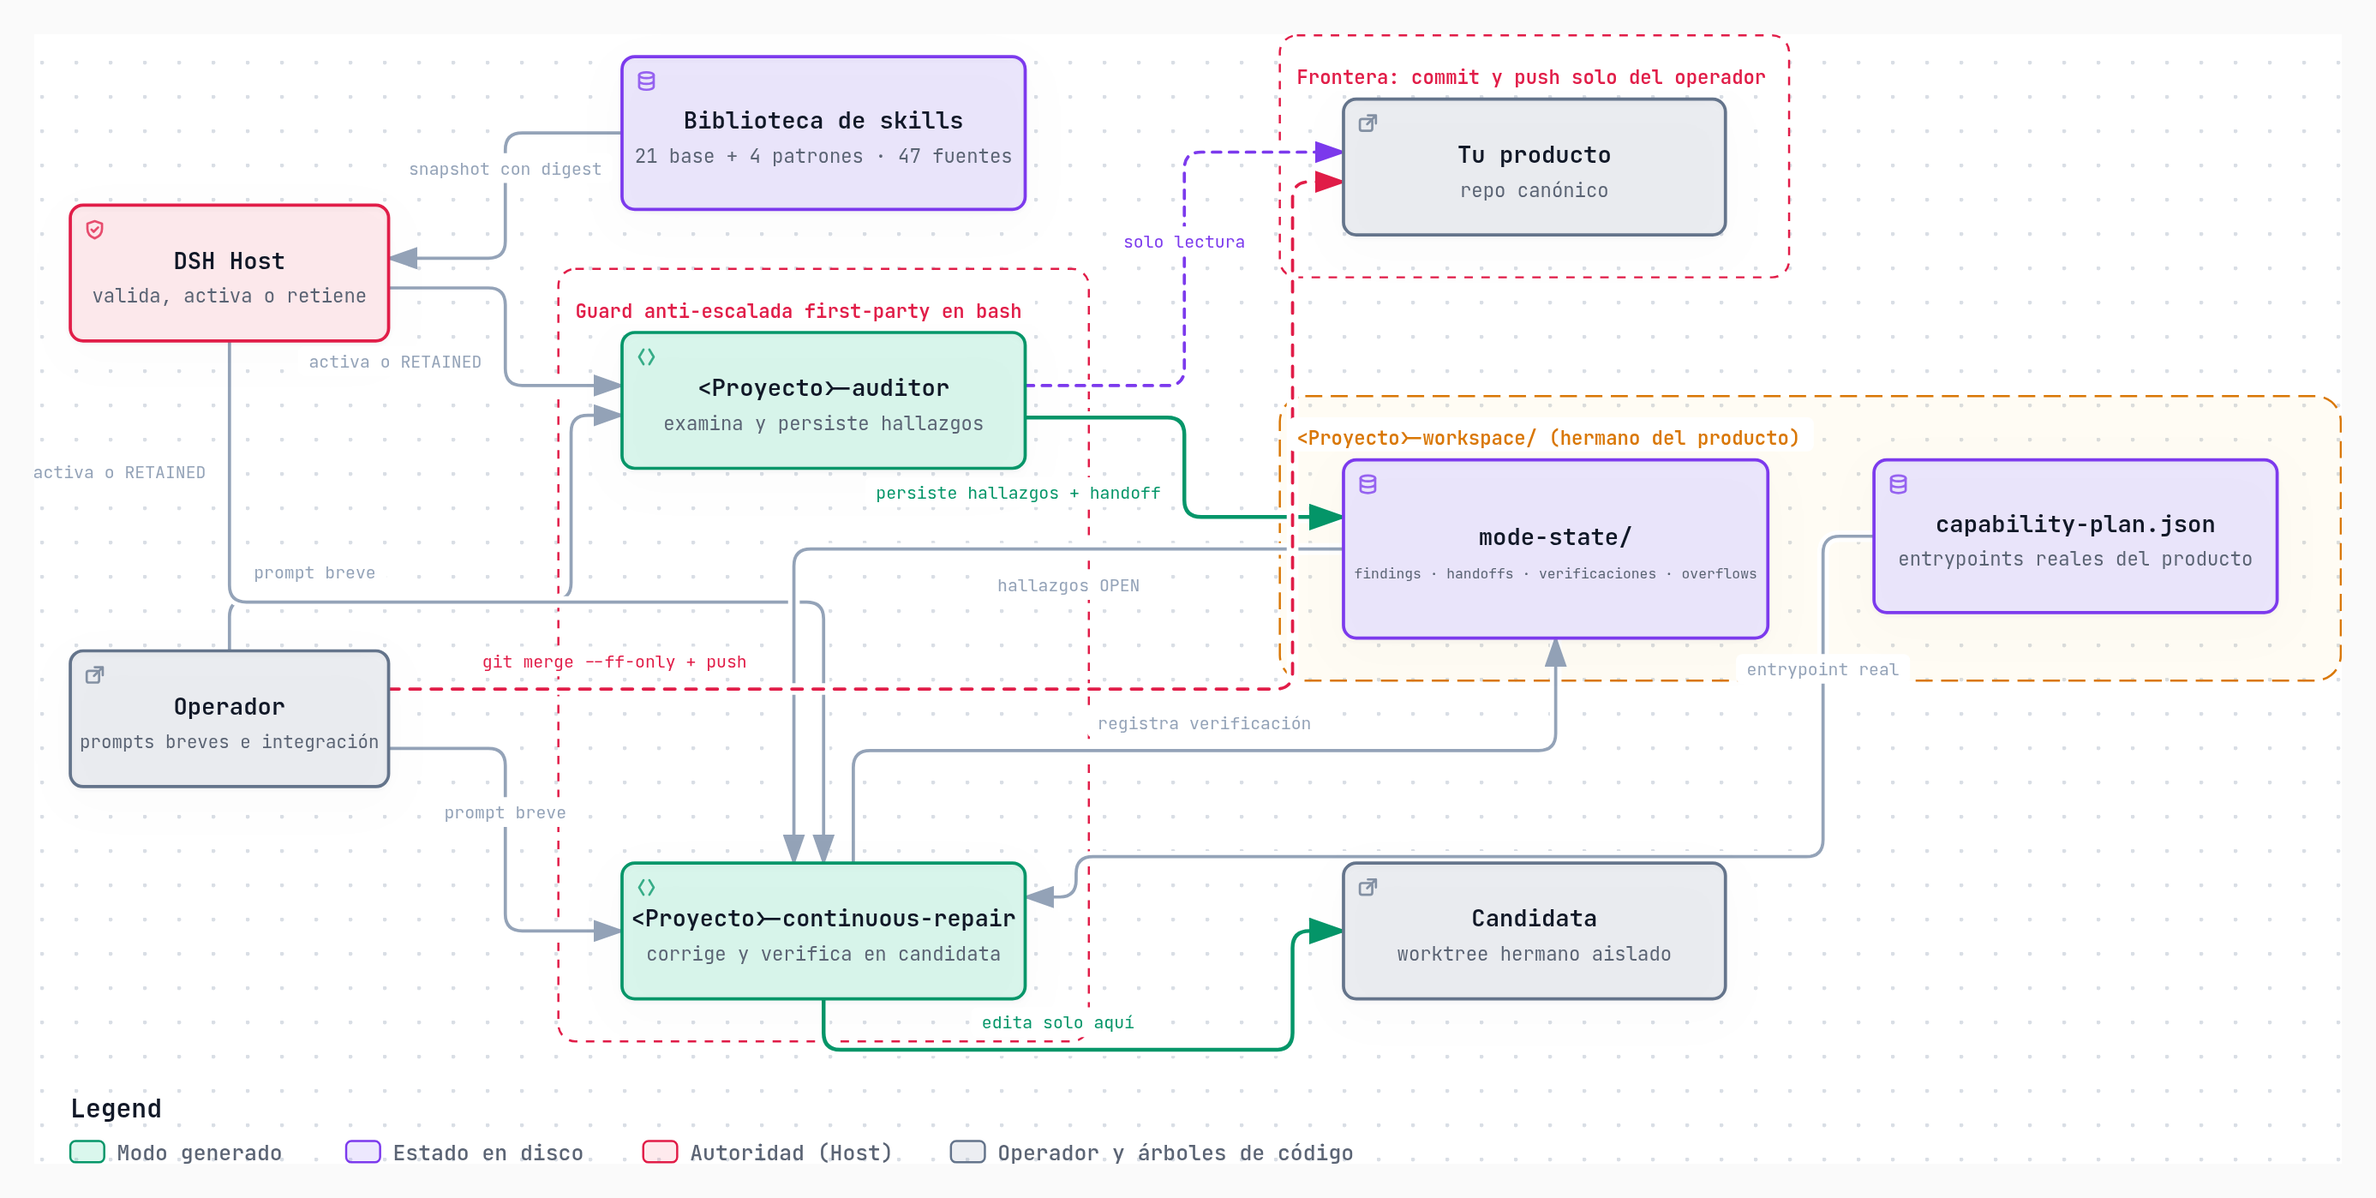
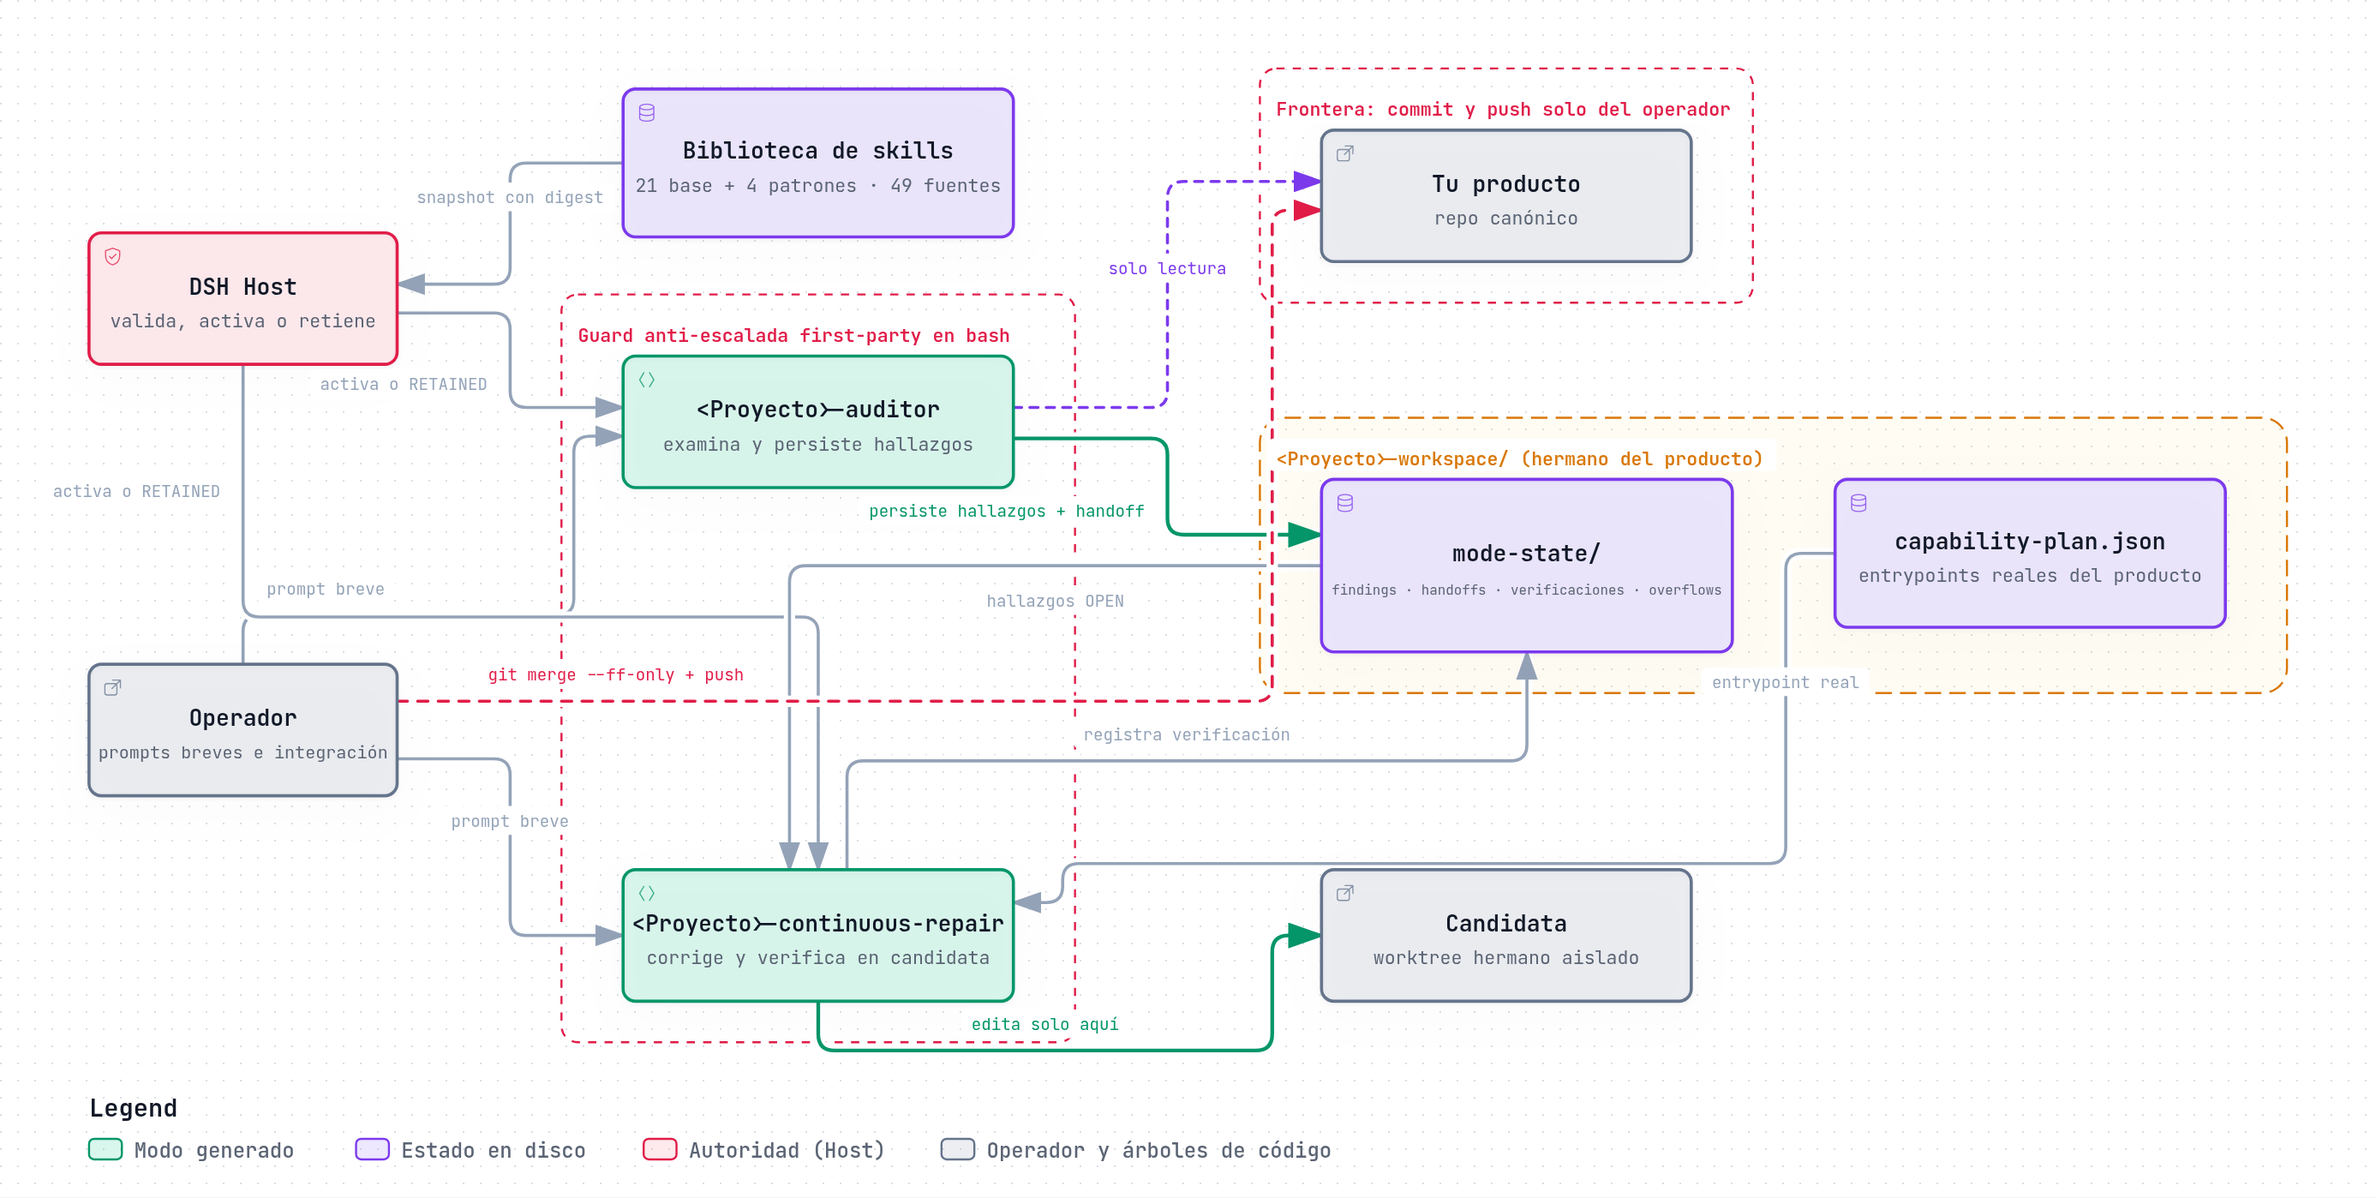
Registro de fuentes: mattpocock/skills y NVIDIA-NeMo/Switchyard como REFERENCE (49)
Las dos se registran con pin por commit y decisión razonada; ninguna se adopta
todavía, por decisión del mantenedor: está cambiando el código y no quiere
entradas sin ganancia comprobada. Registrar fija procedencia, licencia y
criterio; implementar, no.

- mattpocock/skills (MIT, b0618bc): 38 SKILL.md, de los que el manifiesto
  selecciona 27. Instrucciones puras sin runtime. diagnosing-bugs solapa con lo
  ya cubierto en library/base/, así que su valor se decide por triaje skill a
  skill, nunca por catálogo completo.
- NVIDIA-NeMo/Switchyard (Apache-2.0, 1a0d119): servidor de enrutado de modelos
  siempre vivo que cambia la topología actual; de él solo libsy —que separa la
  decisión de la llamada al modelo— encaja con la separación de autoridad. Su
  fallback_client es un proxy abierto y decision_clients solo admite system_one,
  sin holdout; queda escrito como freno a una adopción inadvertida.

Se corrige el recuento de 47 a 49 en README.md, README.es.md,
PLAN_IMPLEMENTACION.md y docs/status.md (texto y matriz), incluido el desglose
de repositorios de skills/índices/runtimes de 24 a 26. El diagrama de
arquitectura instalada se actualiza en su fuente y se re-renderiza con archify
finalize (validate, deliver, check y browser-check en verde); el PNG se recaptura
en modo embed a las mismas dimensiones y el único cambio visual es el número.

Suite: 804 OK (11 saltadas sin runtime)

diff --git a/docs/diagrams/arquitectura-instalacion.html b/docs/diagrams/arquitectura-instalacion.html
@@ -5095,8 +5095,8 @@ OTHER DEALINGS IN THE FONT SOFTWARE.
         <text data-detail="fine" x="115" y="166" class="t-security" font-size="7" text-anchor="middle">estados mecánicos</text>
         </g>
 
-        <g id="node-biblioteca" data-node-id="biblioteca" data-node-label="Biblioteca de skills" tabindex="0" role="button" aria-label="Focus Biblioteca de skills, 21 base + 4 patrones · 47 fuentes, Architecture component" aria-pressed="false" data-node-kind="database" data-node-sublabel="21 base + 4 patrones · 47 fuentes" data-node-tag="procedencia registrada" data-node-context="Architecture component">
-          <title>Biblioteca de skills · 21 base + 4 patrones · 47 fuentes · Architecture component · procedencia registrada</title>
+        <g id="node-biblioteca" data-node-id="biblioteca" data-node-label="Biblioteca de skills" tabindex="0" role="button" aria-label="Focus Biblioteca de skills, 21 base + 4 patrones · 49 fuentes, Architecture component" aria-pressed="false" data-node-kind="database" data-node-sublabel="21 base + 4 patrones · 49 fuentes" data-node-tag="procedencia registrada" data-node-context="Architecture component">
+          <title>Biblioteca de skills · 21 base + 4 patrones · 49 fuentes · Architecture component · procedencia registrada</title>
           <rect x="300" y="40" width="190" height="72" rx="6" class="c-mask"/>
           <rect x="300" y="40" width="190" height="72" rx="6" class="c-database" stroke-width="1.5"/>
           <g aria-hidden="true" data-semantic-sigil="database" class="semantic-sigil s-database" transform="translate(306 46) scale(0.6875)">
@@ -5104,7 +5104,7 @@ OTHER DEALINGS IN THE FONT SOFTWARE.
             <path d="M3 4v8c0 1.1 2.2 2 5 2s5-.9 5-2V4M3 8c0 1.1 2.2 2 5 2s5-.9 5-2"/>
           </g>
           <text data-node-label="" data-detail-anchor="" x="395" y="74" class="t-primary" font-size="11" font-weight="600" text-anchor="middle">Biblioteca de skills</text>
-        <text data-detail="context" x="395" y="90" class="t-muted" font-size="9" text-anchor="middle">21 base + 4 patrones · 47 fuentes</text>
+        <text data-detail="context" x="395" y="90" class="t-muted" font-size="9" text-anchor="middle">21 base + 4 patrones · 49 fuentes</text>
         <text data-detail="fine" x="395" y="104" class="t-database" font-size="7" text-anchor="middle">procedencia registrada</text>
         </g>
 
@@ -5472,7 +5472,7 @@ OTHER DEALINGS IN THE FONT SOFTWARE.
           <h3>Skills con procedencia</h3>
         </div>
         <ul>
-          <li>21 base + 4 patrones desde 47 fuentes fijadas</li>
+          <li>21 base + 4 patrones desde 49 fuentes fijadas</li>
           <li>Creator reutiliza contra el snapshot con digest</li>
           <li>El guard anti-escalada viaja en el bundle</li>
         </ul>

diff --git a/docs/status.md b/docs/status.md
@@ -1,6 +1,6 @@
 # Estado comprobado del framework
 
-**Actualización:** 2026-10-06
+**Actualización:** 2026-10-08
 **Arquitectura vigente:** [v3.0](../ARQUITECTURA_FLUJO_AGENTES.md) (norma implementada; lifecycle operativo EN CURSO/IMPLEMENTED_NOT_VERIFIED)
 **Índice de progreso:** [C0–C7 y post-C7](../PLAN_IMPLEMENTACION.md)
 
@@ -37,7 +37,7 @@ El historial eliminado sigue disponible en Git y no debe reconstruirse como inst
 
 Creator selecciona primero la biblioteca base inmutable y el catálogo de patrones especializados; después compone o aplica overrides declarativos. Solo genera una extensión cuando demuestra que esas capas no aplican, con contrato, escenarios y aceptación específica. Una skill transferida no es válida automáticamente para otro proyecto. La regeneración no sustituye bases por conveniencia.
 
-Las fuentes externas evaluadas quedan registradas con procedencia fijada en `library/source-registry.json` (esquema `source-registry.schema.json`): 47 fuentes — 24 repositorios de skills/índices/runtimes y 23 estándares o guías, con `fastapi-pydantic-docs` sustituida por `fastapi-framework` y `pydantic-framework` fijadas por observación directa — con URL canónica, commit, fecha, licencia, estado y decisión razonada. Una fuente sin revisión fijada o con licencia no resuelta no puede ser `CANDIDATE` ni `ACTIVE`; la adquisición es solo manual con pin, sin npx/marketplace/descargas, con staging fuera del árbol y validación Host previa. El inventario pormenorizado que respalda las decisiones se mantiene en un espacio de auditoría externo; el registro solo conserva su digest SHA-256. La superficie de descubrimiento de nuevas fuentes es la búsqueda `topic:claude-skills` de la API de GitHub, filtrada por hechos verificables (licencia, mantenimiento, pruebas) y con adopción solo por análisis por skill con pin manual; la frescura nunca ordena.
+Las fuentes externas evaluadas quedan registradas con procedencia fijada en `library/source-registry.json` (esquema `source-registry.schema.json`): 49 fuentes — 26 repositorios de skills/índices/runtimes y 23 estándares o guías, con `fastapi-pydantic-docs` sustituida por `fastapi-framework` y `pydantic-framework` fijadas por observación directa — con URL canónica, commit, fecha, licencia, estado y decisión razonada. Una fuente sin revisión fijada o con licencia no resuelta no puede ser `CANDIDATE` ni `ACTIVE`; la adquisición es solo manual con pin, sin npx/marketplace/descargas, con staging fuera del árbol y validación Host previa. El inventario pormenorizado que respalda las decisiones se mantiene en un espacio de auditoría externo; el registro solo conserva su digest SHA-256. La superficie de descubrimiento de nuevas fuentes es la búsqueda `topic:claude-skills` de la API de GitHub, filtrada por hechos verificables (licencia, mantenimiento, pruebas) y con adopción solo por análisis por skill con pin manual; la frescura nunca ordena.
 
 La biblioteca base está materializada en `library/library.json` con contenido y escenarios en `library/base/`. La conversión de la base está completa: 21 skills (reimplementación propia con atribución MIT de `obra-superpowers` y `addyosmani-agent-skills`) — brainstorming, writing-plans, executing-plans, systematic-debugging, test-driven-development, requesting-code-review, receiving-code-review, verification-before-completion, finishing-a-development-branch, spec-driven-development, constraint-driven-development, source-driven-development, security-and-hardening, context-engineering, api-and-interface-design, observability-and-instrumentation, documentation-and-adrs, performance-optimization, incremental-implementation, code-simplification y deprecation-and-migration. Cada skill base tiene un escenario positivo y al menos uno de veredicto FAIL/BLOCKED, y la cobertura es bidireccional y obligatoria en la suite. Se rechazaron como base idea-refine, interview-me y using-agent-skills por ser meta o interactivas sin valor universal.
 
@@ -110,7 +110,7 @@ Unidades incorporadas tras C7, guiadas por evidencia de sesiones DSH reales; el 
 
 | Unidad | Estado | Contenido comprobado |
 |---|---|---|
-| Registro de fuentes y biblioteca materializada | HECHO | 47 fuentes con procedencia fijada; 21 skills base inmutables y 4 patrones de catálogo con escenarios y regresión bidireccional |
+| Registro de fuentes y biblioteca materializada | HECHO | 49 fuentes con procedencia fijada; 21 skills base inmutables y 4 patrones de catálogo con escenarios y regresión bidireccional |
 | Integración biblioteca ↔ Creator | HECHO | snapshot de biblioteca por run, prompt con base/catálogo y criterios de activación, `reuse_reference` resuelto por el validador Host contra el snapshot |
 | Despacho automático y ciclo de vida DSH | HECHO | detección/parada de instancias previas, propiedad del puerto 3080 sin matar procesos ajenos, cookie HMAC del home, `npx -y` no interactivo con salida capturada y tokens redactados, resolutor de proveedor utilizable (aviso, no bloqueo; `DSH_PROVIDER_STRICT=1` para parada dura) |
 | Sesión ligada al workspace del run | HECHO | `workspace/create` + `session/create` con `workspaceId`; única sesión Creator, agrupada en la UI, frontera `workspace-write` en el workspace entero, sin sesiones evaluator/reviewer ni delegación |

diff --git a/CHANGELOG.md b/CHANGELOG.md
@@ -1,5 +1,12 @@
 # Cambios
 
+## Registro de fuentes: dos candidatas evaluadas, ninguna adoptada (49) — 2026-10-08
+- **El registro pasa de 47 a 49 fuentes; las dos entran como REFERENCE y ninguna como candidata.** `mattpocock/skills` (MIT, pin `b0618bc`) queda como material de referencia para un triaje por skill: su `diagnosing-bugs` —bucle reproducible, minimización, hipótesis, instrumentación y verificación— **solapa con lo ya cubierto en `library/base/`**, derivado de `obra-superpowers`, así que lo que aporta se decide skill a skill contra la base actual y nunca por catálogo completo. `NVIDIA-NeMo/Switchyard` (Apache-2.0, pin `1a0d119`) queda registrado sin adopción: un servidor de enrutado de modelos siempre vivo, con configuración TOML en capas, **cambia la topología actual**; de él solo `libsy` —que separa la decisión de la llamada al modelo y deja la ejecución en el host— tiene forma compatible con la separación de autoridad vigente.
+- **Queda escrito lo que impediría una adopción inadvertida.** Switchyard declara un `fallback_client` que reenvía **toda ruta no registrada** a un upstream, es decir un proxy abierto incompatible con el fail-closed de este framework, y `decision_clients` solo admite `system_one`, sin holdout que permita medir si enruta mejor o peor. Además es v0.3.0 pre-1.0: el pin exige revalidación, no una fotografía. En el caso de las skills, el cambio de comportamiento necesario es de supuestos de host, no de código: sin auto-descubrimiento ni marketplace (prohibidos por la política del registro), con la verificación declarada convertida en gate del Host y los artefactos de reproducción fuera del árbol canónico.
+- **La adopción queda aplazada por decisión del mantenedor, no por falta de análisis.** El mantenedor está cambiando el código y no quiere añadir sin ganancia comprobada: registrar fija la procedencia, la licencia y la decisión razonada; implementar, no. Una entrada más sin funcionalidad medible no entra, y el criterio para cada fuente queda en su campo `notes`.
+- **El recuento se corrige en todas las superficies que lo declaraban.** README.md, README.es.md, `PLAN_IMPLEMENTACION.md` y `docs/status.md` (texto de estado y fila de la matriz) pasan de 47 a 49 fuentes, con el desglose de repositorios de skills/índices/runtimes actualizado de 24 a 26. El diagrama de arquitectura instalada se actualiza en su fuente, se re-renderiza con `archify finalize` (validate, deliver, check y browser-check en verde) y el PNG se recaptura en modo embed a las mismas dimensiones del anterior; el cambio visual es únicamente el número.
+- **Suite: 804 OK (11 saltadas sin runtime)**
+
 ## Ejecutor de workflows en el Host: U1-U3 — 2026-10-06
 - **U1 · el ejecutor corre planes sin DSH.** `scripts/workflow.py` ejecuta planes JSON con pasos `gate`/`join`/`fase`: plan validado fail-closed (ids únicos, dependencias previas y acíclicas por construcción, tipos conocidos, estructura por tipo; un plan inválido produce error sin crear journal ni run dir), run dir externo `<workspace>-workflow/<run_id>/` con `run_id` derivado del contenido verbatim del plan y modo 0700, gates por argv sin shell con salida capturada a `observations/NN-<step>-<intent>.json` y `WORKFLOW_OBSERVATION` con el resultado del ask previo, exit 1 enrutable por `on_fail` (retry con rounds, abort, continue) y spawn fallido u otro exit como IMPOSSIBLE → `RUN_RETAINED`, fase que cuenta `GATE_REJECTED` desde su `PHASE_STARTED` con tope `max_rounds` y join que sella el digest de cada dependencia. Regresiones: `tests/test_workflow_executor.py` (14).
 - **U2 · la entrada es bootstrap, y sin sesión se abstiene.** `bootstrap.py workflow run|verify` (con `--run-root` anulable sobre el hermano externo por defecto) adquiere el cliente DSH solo por la vía no-launch —jamás lanza `dsh web`— y ante un plan con paso `ask` sin cliente disponible se abstiene: nada hecho, nada escrito, sin run dir ni journal, nombrando la pieza que falta; comando-decisión, exit 1. En las pruebas la adquisición se neutraliza por completo (DSH_HOME temporal y candidatos vacíos) porque fijar solo `DSH_HOME` no basta: `acquire` itera también `~/.dsh`, `~/.deepseek` y `~/.config/dsh`. Regresiones: `tests/test_workflow_bootstrap.py` (5).

diff --git a/PLAN_IMPLEMENTACION.md b/PLAN_IMPLEMENTACION.md
@@ -49,7 +49,7 @@ Unidades posteriores a C7, cada una con cambio de flujo, regresión y entrada en
 
 | ID | Resultado | Estado | Contenido comprobado |
 |---|---|---|---|
-| P1 | Registro de fuentes y biblioteca materializada | HECHO | 47 fuentes con procedencia fijada (commit o spec_version); 21 skills base inmutables y 4 patrones de catálogo con criterios de activación y escenarios; regresión bidireccional |
+| P1 | Registro de fuentes y biblioteca materializada | HECHO | 49 fuentes con procedencia fijada (commit o spec_version); 21 skills base inmutables y 4 patrones de catálogo con criterios de activación y escenarios; regresión bidireccional |
 | P2 | Integración biblioteca ↔ Creator | HECHO | snapshot de biblioteca por run, prompt con base/catálogo, `reuse_reference` resuelto por el validador Host contra el snapshot |
 | P3 | Despacho automático y ciclo de vida DSH | HECHO | detención de instancias previas, propiedad del puerto, cookie HMAC del home, lanzamiento no interactivo con diagnóstico, resolutor de proveedor utilizable |
 | P4 | Sesión Creator ligada al workspace | HECHO | `workspace/create` + `workspaceId`; única sesión Creator, agrupada en la UI, sin sesiones evaluator/reviewer ni delegación; frontera `workspace-write` = workspace del run |

diff --git a/README.md b/README.md
@@ -85,7 +85,7 @@ test-driven development, systematic debugging, security hardening, code review, 
 plans…— reimplemented with MIT attribution. On top, 4 specialized catalog patterns that
 activate only on signals observed in your project: static review of IAM policies,
 security HTTP headers verification, FastAPI OpenAPI contract checks, and WCAG 2.2
-accessibility. Behind them stand 47 pinned external sources — skill repositories, W3C
+accessibility. Behind them stand 49 pinned external sources — skill repositories, W3C
 standards, AWS and MDN guides — with URL, revision, and license recorded for each one.
 
 Creator selects following a mandatory order: first a base skill; then a catalog pattern,

diff --git a/README.es.md b/README.es.md
@@ -86,7 +86,7 @@ desarrollo dirigido por tests, depuración sistemática, endurecimiento de segur
 revisión de código, escritura de planes…— reimplementadas con atribución MIT. Encima, 4
 patrones especializados que solo se activan ante señales observadas en tu proyecto:
 revisión estática de políticas IAM, verificación de cabeceras HTTP de seguridad, contrato
-OpenAPI de FastAPI y accesibilidad WCAG 2.2. Detrás hay 47 fuentes externas fijadas —
+OpenAPI de FastAPI y accesibilidad WCAG 2.2. Detrás hay 49 fuentes externas fijadas —
 repositorios, estándares W3C, guías de AWS y MDN — con URL, revisión y licencia
 registradas de cada una.
 
